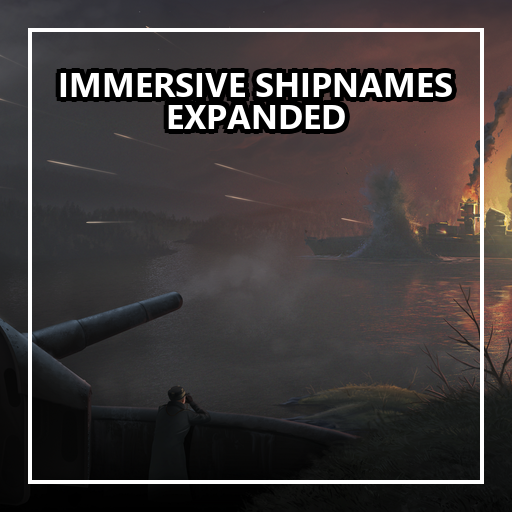
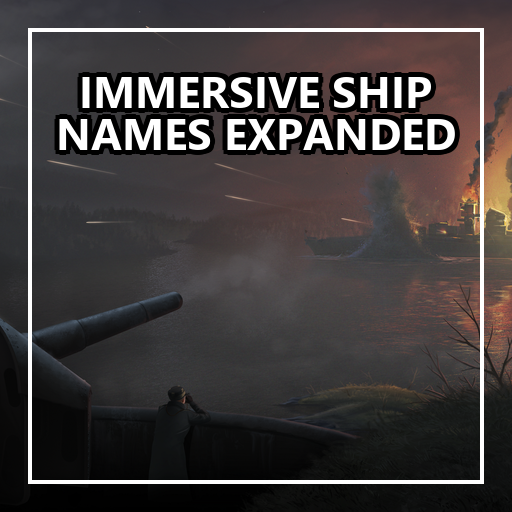
Fix naming consistency by updating "Immersive Shipnames Expanded" to "Immersive Ship Names Expanded" across multiple files

Changed region(s): [[0.0938, 0.125, 0.9062, 0.3125]]

diff --git a/.agents/skills/hoi4-isne-ship-namelist-authoring/SKILL.md b/.agents/skills/hoi4-isne-ship-namelist-authoring/SKILL.md
@@ -2,21 +2,21 @@
 name: hoi4-isne-ship-namelist-authoring
 description: >-
   Runbook for researching historical naval doctrine, class naming traditions, and authoring
-  immersive ship namelists for Hearts of Iron IV in the Immersive Shipnames Expanded (ISNE) mod.
+  immersive ship namelists for Hearts of Iron IV in the Immersive Ship Names Expanded (ISNE) mod.
   Use when adding a new nation or expanding existing national ship namelists into ship-type specific
   and universal thematic topic categories.
 ---
 
 # Hearts of Iron IV Ship Namelist Authoring Runbook
 
-This skill provides step-by-step guidance for researching, scoping, authoring, and validating naval ship namelists for *Immersive Shipnames Expanded* (ISNE).
+This skill provides step-by-step guidance for researching, scoping, authoring, and validating naval ship namelists for *Immersive Ship Names Expanded* (ISNE).
 
 ---
 
 ## 1. Guiding Philosophy: Historical Plausibility Over Rigid Accuracy
 
 > [!IMPORTANT]
-> The primary design philosophy of **Immersive Shipnames Expanded** is **historical plausibility**, NOT strict historical accuracy.
+> The primary design philosophy of **Immersive Ship Names Expanded** is **historical plausibility**, NOT strict historical accuracy.
 
 ### What Historical Plausibility Means in ISNE:
 - **Scalability for Gameplay**: Rigid historical accuracy artificially limits namelists only to hulls that historically entered commission (e.g., only 2 coastal defense ships and 5 submarines for Finland). When a player or AI mobilizes, expands dockyards, and constructs large wartime fleets (fleet carriers, heavy cruisers, battlecruisers, destroyers), rigid accuracy fails and ships receive generic numbered stubs.

diff --git a/WORKSHOP_DESCRIPTION_GUIDELINES.md b/WORKSHOP_DESCRIPTION_GUIDELINES.md
@@ -1,6 +1,6 @@
 # Steam Workshop Description Guidelines & Reference
 
-This document serves as an instruction and reference guide for maintaining and updating the Steam Workshop description for **Immersive Shipnames Expanded**.
+This document serves as an instruction and reference guide for maintaining and updating the Steam Workshop description for **Immersive Ship Names Expanded**.
 
 ---
 
@@ -59,7 +59,7 @@ This document serves as an instruction and reference guide for maintaining and u
 ## Current Description Template (BBCode)
 
 ```bbcode
-Immersive Shipnames Expanded expands Hearts of Iron IV ship namelists with historically plausible, linguistically accurate, and immersive names across all naval hull classes.
+Immersive Ship Names Expanded expands Hearts of Iron IV ship namelists with historically plausible, linguistically accurate, and immersive names across all naval hull classes.
 
 Never run dry on ship names during extended campaigns or alternate-history naval buildups!
 

diff --git a/wiki/Home.md b/wiki/Home.md
@@ -1,6 +1,6 @@
-# Immersive Shipnames Expanded — Wiki
+# Immersive Ship Names Expanded — Wiki
 
-**Immersive Shipnames Expanded (ISNE)** is a Hearts of Iron IV mod providing historically plausible, linguistically accurate naval ship namelists for historical and alternate-history campaigns.
+**Immersive Ship Names Expanded (ISNE)** is a Hearts of Iron IV mod providing historically plausible, linguistically accurate naval ship namelists for historical and alternate-history campaigns.
 
 - **GitHub Repository:** [TheCreepero/immersive_shipnames_expanded](https://github.com/TheCreepero/immersive_shipnames_expanded)
 

diff --git a/GEMINI.md b/GEMINI.md
@@ -1,4 +1,4 @@
-# Immersive Shipnames Expanded (ISNE) Development Rules
+# Immersive Ship Names Expanded (ISNE) Development Rules
 
 ## 1. File Structure & Naming Conventions
 - All ship namelist files must reside in `common/units/names_ships/ISNE_<TAG>_ship_names.txt`.

diff --git a/README.md b/README.md
@@ -1,4 +1,4 @@
-# Immersive Shipnames Expanded (ISNE)
+# Immersive Ship Names Expanded (ISNE)
 
 A Hearts of Iron IV mod providing immersive, linguistically accurate, and historically plausible naval ship namelists for historical and alternate-history campaigns.
 
